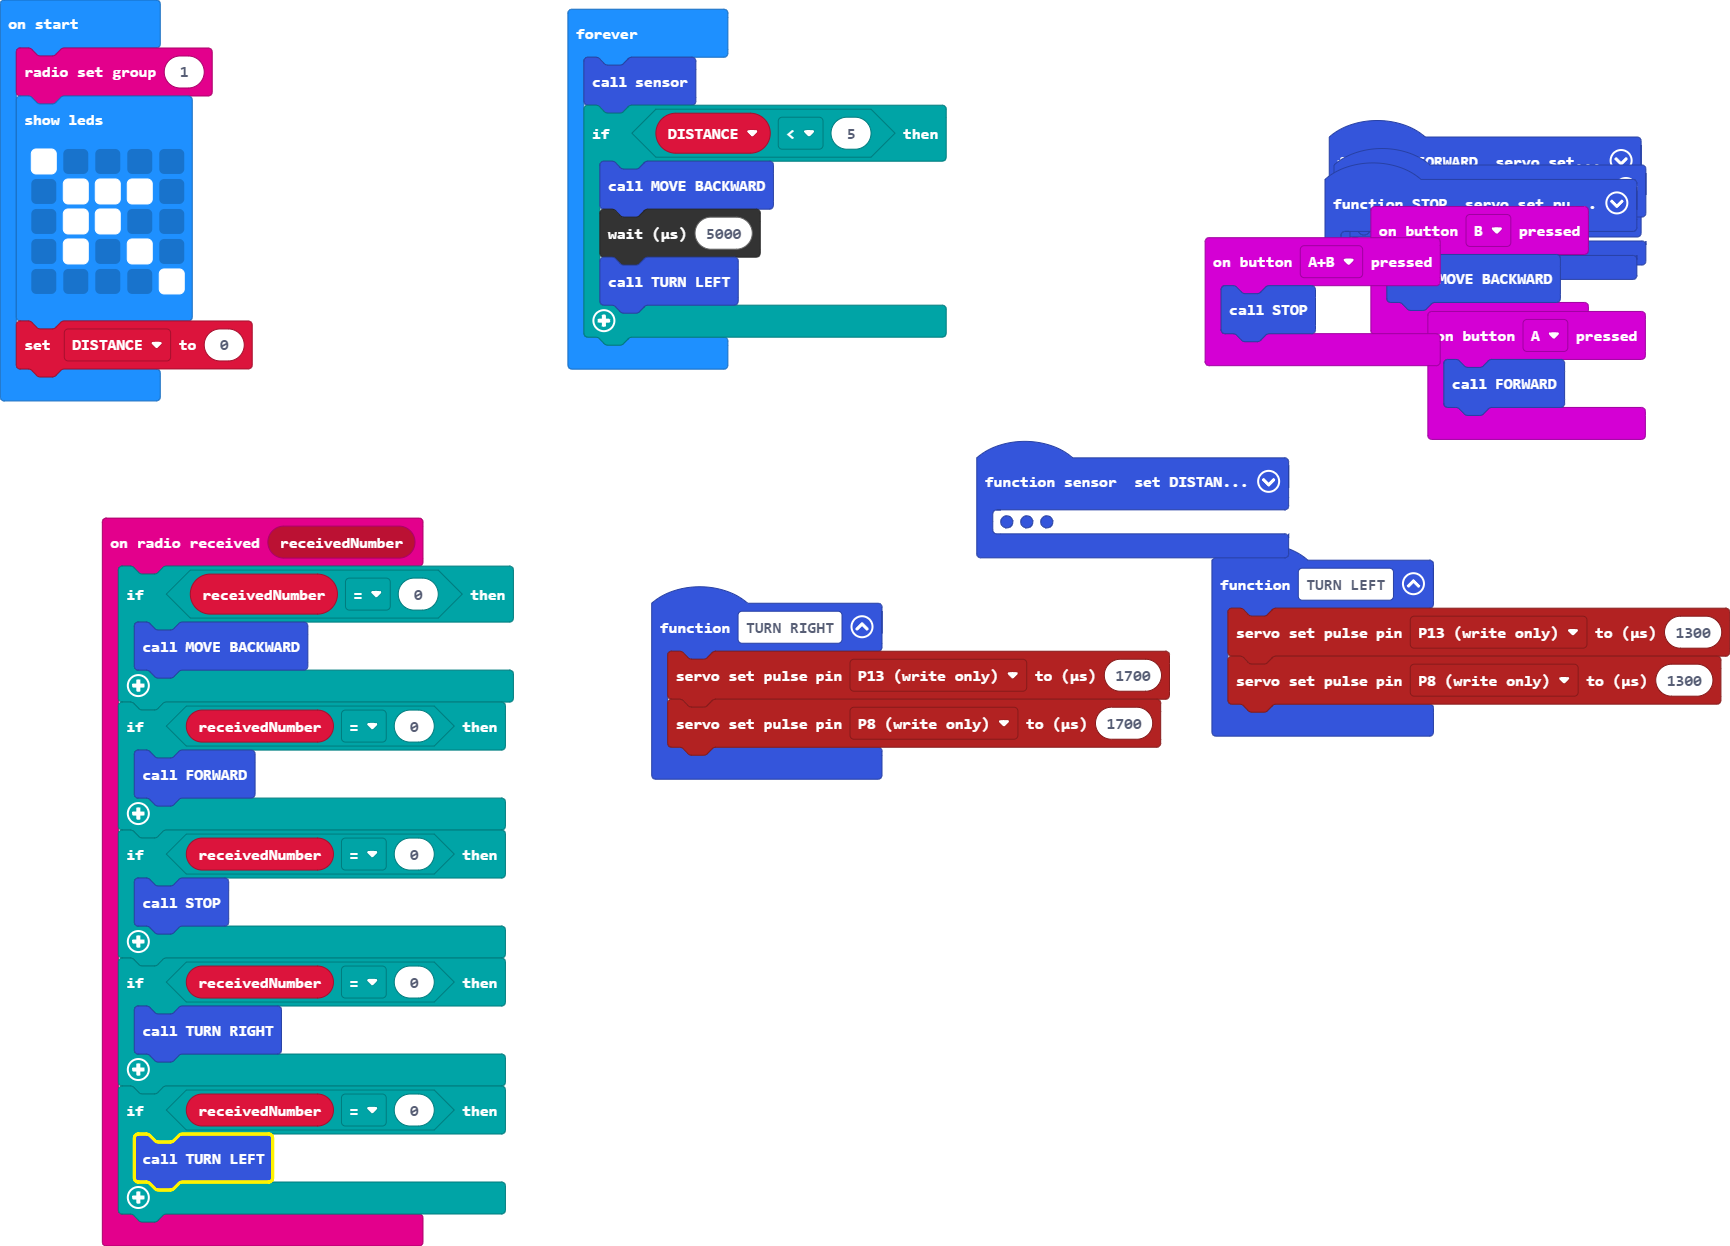
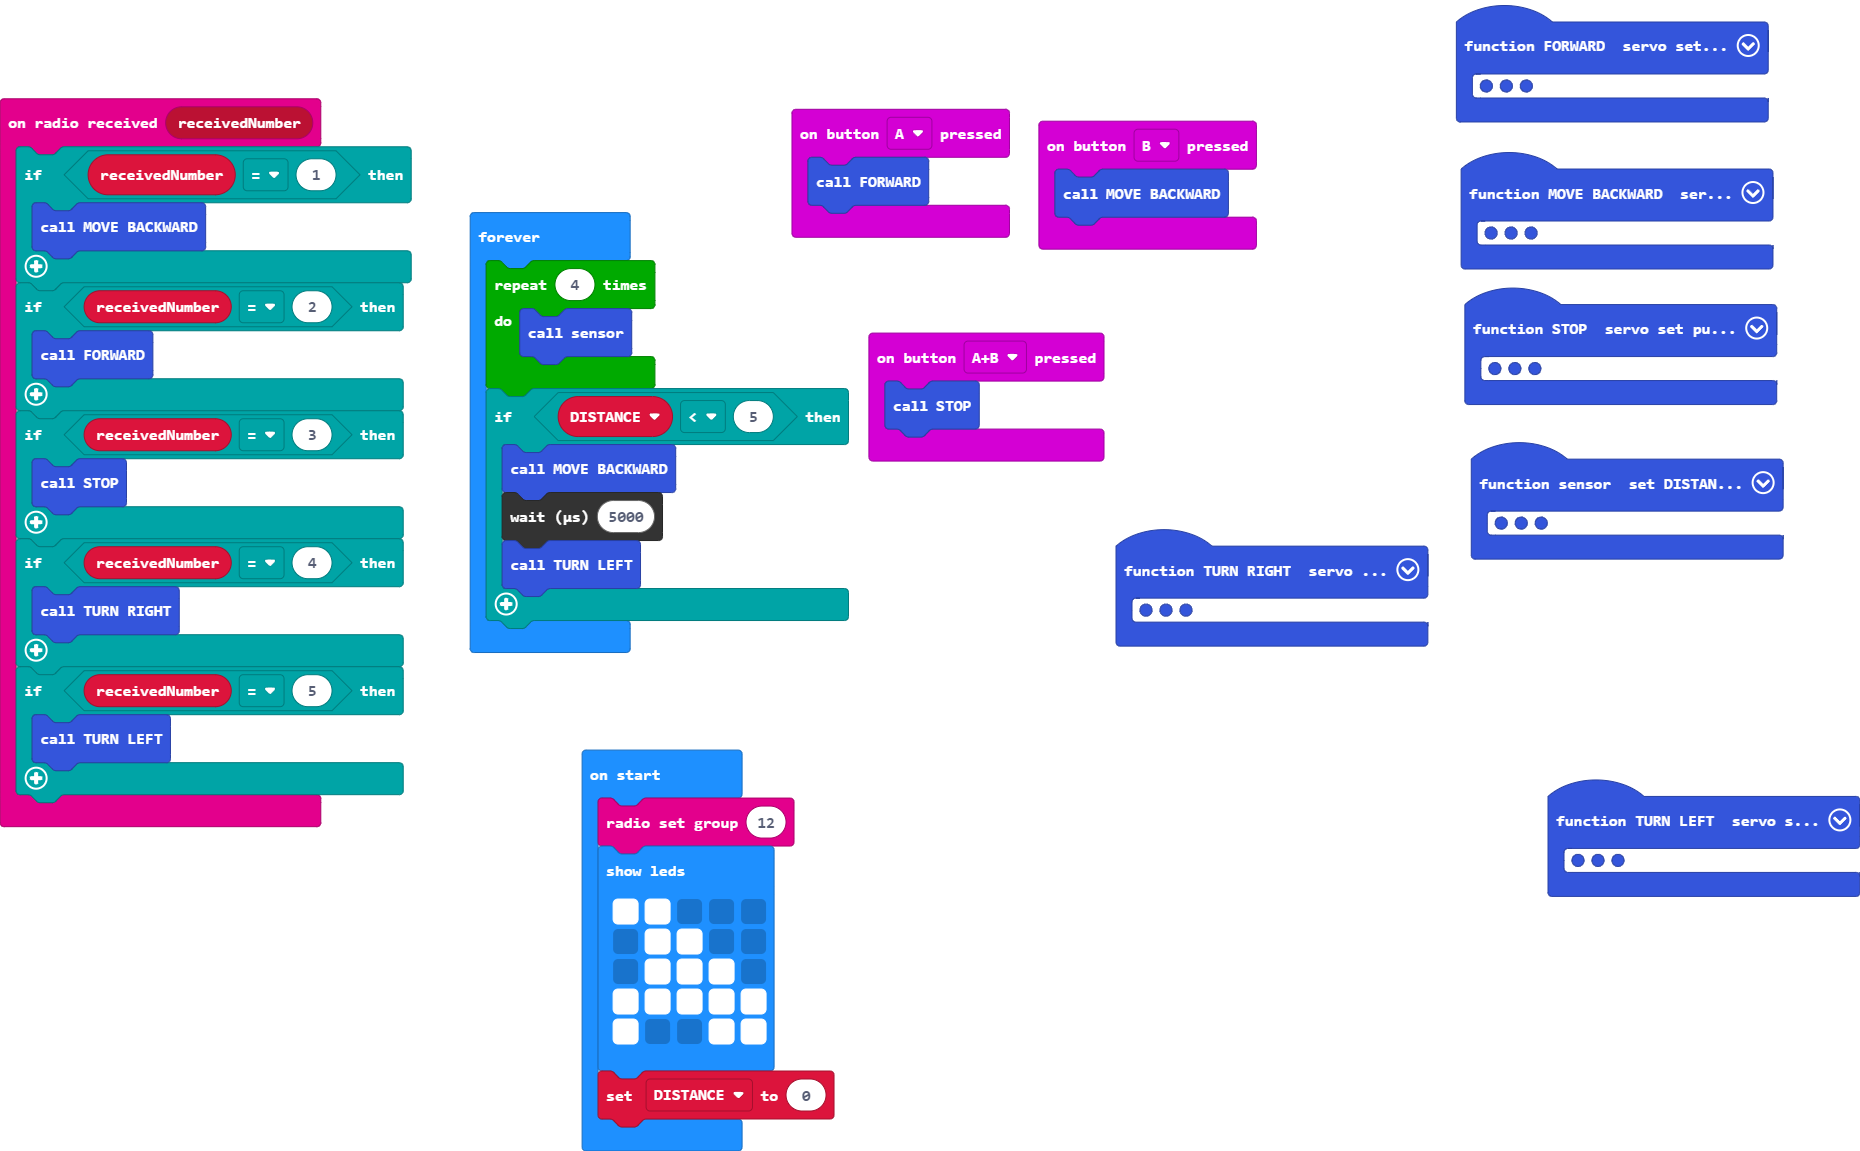
Update main.blocks, main.ts

diff --git a/main.ts b/main.ts
@@ -3,19 +3,19 @@ function TURN_LEFT () {
     pins.servoSetPulse(AnalogPin.P8, 1300)
 }
 radio.onReceivedNumber(function (receivedNumber) {
-    if (receivedNumber == 0) {
+    if (receivedNumber == 1) {
         MOVE_BACKWARD()
     }
-    if (receivedNumber == 0) {
+    if (receivedNumber == 2) {
         FORWARD()
     }
-    if (receivedNumber == 0) {
+    if (receivedNumber == 3) {
         STOP()
     }
-    if (receivedNumber == 0) {
+    if (receivedNumber == 4) {
         TURN_RIGHT()
     }
-    if (receivedNumber == 0) {
+    if (receivedNumber == 5) {
         TURN_LEFT()
     }
 })
@@ -56,17 +56,19 @@ function sensor () {
     pins.digitalWritePin(DigitalPin.P1, 0)
 }
 let DISTANCE = 0
-radio.setGroup(1)
+radio.setGroup(12)
 basic.showLeds(`
-    # . . . .
-    . # # # .
+    # # . . .
     . # # . .
-    . # . # .
-    . . . . #
+    . # # # .
+    # # # # #
+    # . . # #
     `)
 DISTANCE = 0
 basic.forever(function () {
-    sensor()
+    for (let index = 0; index < 4; index++) {
+        sensor()
+    }
     if (DISTANCE < 5) {
         MOVE_BACKWARD()
         control.waitMicros(5000)
